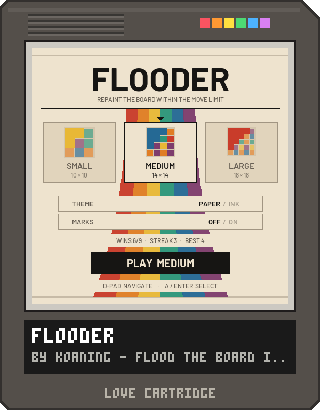
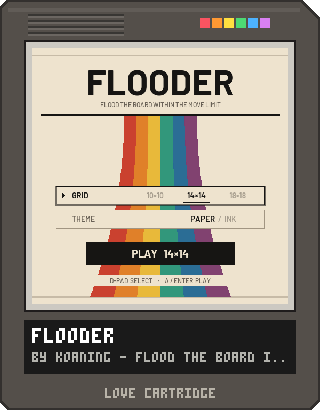
Minimal poster menu: compact grid row, remove marks and stats UI

Changed region(s): [[0.125, 0.1463, 0.875, 0.7317]]

diff --git a/README.md b/README.md
@@ -22,12 +22,12 @@ You own the region in the top-left corner. Each move repaints it with a new colo
 absorbs every touching cell of that colour. Flood the whole board before you run out of
 moves. Each board's move limit is what a greedy bot (always take the biggest gain) needs to
 clear it, so every board can be won but you have to play at least as well as the bot.
-Pick a small (10×10), medium (14×14) or large (18×18) board; wins and streaks are kept per size.
+Pick a 10×10, 14×14 or 18×18 grid from the menu.
 
 Controls: D-pad / arrows pick a colour in the vertical sidebar (the cells it would take are
 outlined), A / Space / Enter floods. Keys 1–6 or clicking a cell / colour bar pick directly.
-B / Backspace returns to the menu (where you can switch between Paper and Ink themes or toggle
-optional colour-blind marks), Y / R deals a new board, Esc (or Back) quits.
+B / Backspace returns to the menu (where you can pick the grid size and switch between Paper
+and Ink themes), Y / R deals a new board, Esc (or Back) quits.
 
 ## Credits
 
